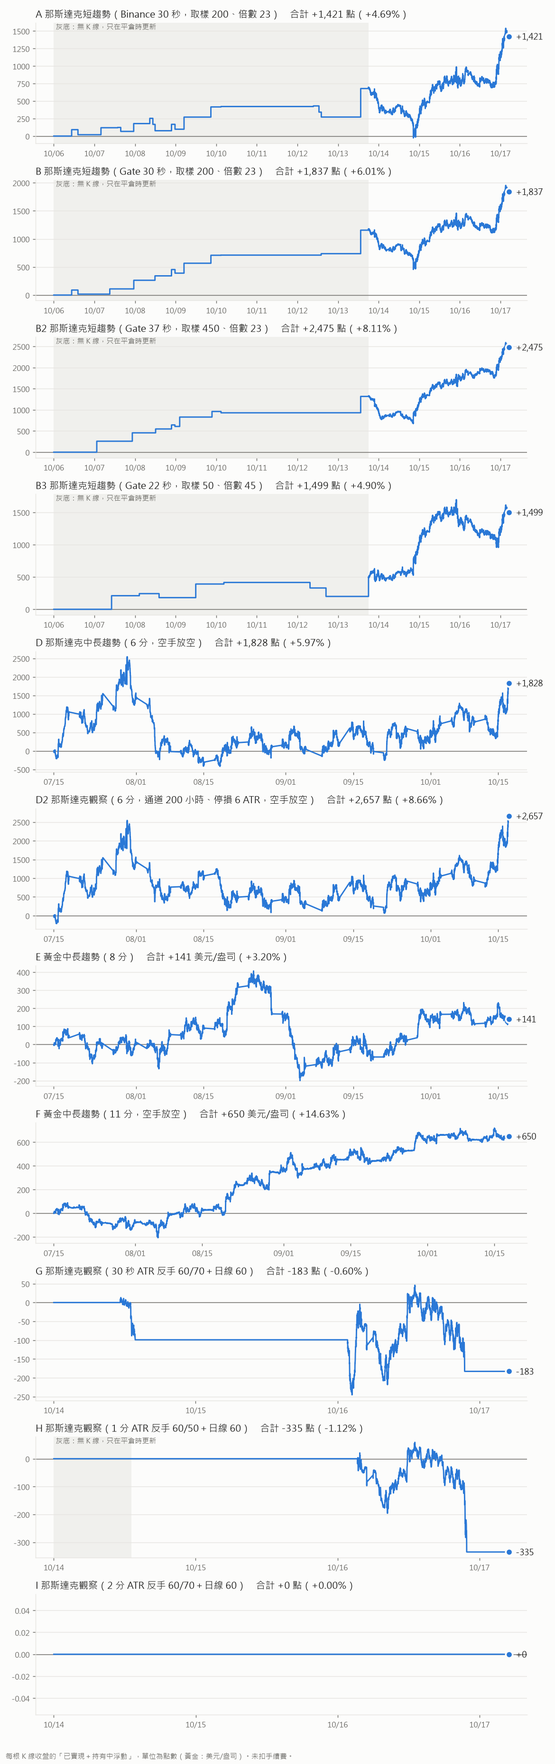
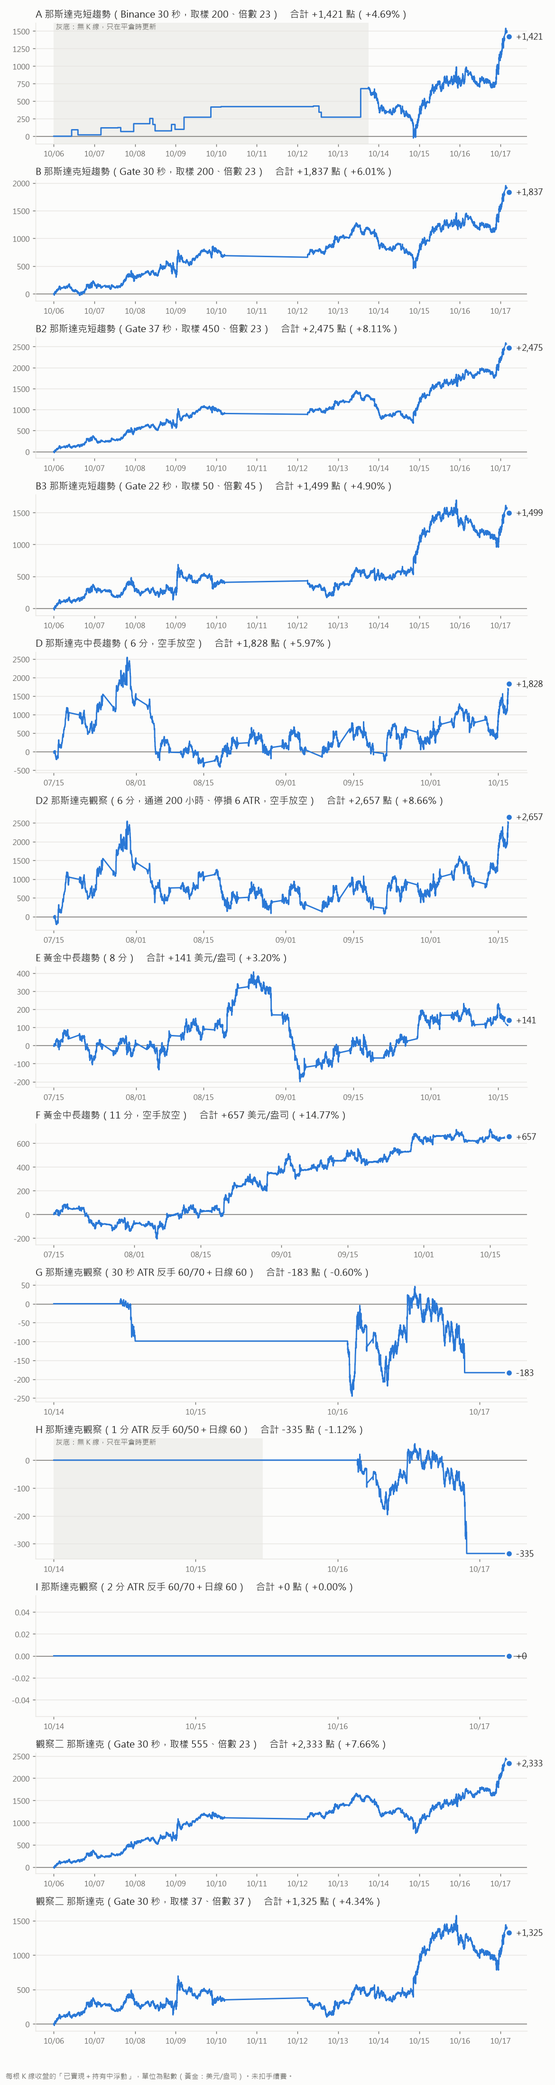
v1.19.0 觀察二四組都進交易明細，恆生改由 TradingView 警報送資料
- 實際紀錄加 O1（Gate 30 秒 555/23）、O2（30 秒 37/37），10/6 起回算：+2,333、+1,325 點（未扣成本）
- 轉接站加 /hsi（同密碼、獨立儲存、留 10 天），新增「恆生傳送」腳本：每根 30 秒 K 送一次，剛建警報時補 3,400 根舊 K 給暖機
- 恆生格接上轉接站資料，交易明細「觀察二 恆生」網頁自算；中斷監控照港期時段、扣 15 分鐘延遲

diff --git a/index.html b/index.html
@@ -3,7 +3,7 @@
 <head>
 <meta charset="utf-8">
 <meta name="viewport" content="width=device-width,initial-scale=1,viewport-fit=cover">
-<title>期貨趨勢 v1.18.0</title>
+<title>期貨趨勢 v1.19.0</title>
 <meta name="description" content="那斯達克 30 秒 Range Filter（Binance 與 Gate）、那斯達克 6 分、黃金 8 分與黃金 11 分 Donchian 的即時趨勢訊號">
 <meta name="theme-color" content="#0b0e14">
 <meta name="apple-mobile-web-app-capable" content="yes">
@@ -165,7 +165,7 @@ canvas{display:block;width:100%;height:100%;touch-action:pan-y;cursor:crosshair}
 
 <script>
 "use strict";
-const VERSION = "v1.18.0";
+const VERSION = "v1.19.0";
 const $ = id => document.getElementById(id);
 const FAPI = "https://fapi.binance.com/fapi/v1";
 const sleep = ms => new Promise(r => setTimeout(r, ms));
@@ -562,10 +562,11 @@ const PANELS = [
    spec:{tf:"30 秒", par:"Range Filter 取樣 37・倍數 37・多空反轉", src:"Gate QQQ 合約原生 30 秒 K"},
    sub:"Gate QQQ 合約 30 秒 K（同 B）・Range Filter 取樣 37・倍數 37（848 右下）",
    P:{per:37, mult:37, useAtr:true, atrLen:12, atrMult:1.5, useVol:true, volLen:20}},
-  {k:"o2hsi", pg:"obs2", title:"恆生", tf:"觀察二・555/25.5", src:"none", nq:false, kind:"rf", span:1e9,
-   waitMsg:"恆生期貨沒有免費的 30 秒資料源，資料接法待決定（策略：30 秒 Range Filter 555/25.5）",
-   spec:{tf:"30 秒", par:"Range Filter 取樣 555・倍數 25.5・多空反轉", src:"待接"},
-   sub:"小型恆生期貨 30 秒 K・Range Filter 取樣 555・倍數 25.5（848 右中）・資料源待接",
+  /* v1.19.0：恆生沒有免費盤後逐筆（港交所逐筆是付費商品），改由 TradingView 小型恆生 30 秒圖掛「恆生傳送」腳本，
+     警報每根 30 秒 K 收盤送到轉接站 /hsi（留 10 天），剛建警報時順便補 3,400 根舊 K 給暖機。帳號是港股延遲報價，晚約 15 分鐘。 */
+  {k:"o2hsi", pg:"obs2", title:"恆生", tf:"觀察二・555/25.5", src:"hsi", nq:false, kind:"rf", span:1e9,
+   spec:{tf:"30 秒", par:"Range Filter 取樣 555・倍數 25.5・多空反轉", src:"小型恆生期貨：TradingView 警報（延遲約 15 分鐘）"},
+   sub:"小型恆生期貨 30 秒 K・Range Filter 取樣 555・倍數 25.5（848 右中）・TradingView 警報轉送",
    P:{per:555, mult:25.5, useAtr:true, atrLen:12, atrMult:1.5, useVol:true, volLen:20}},
 ];
 for(const p of PANELS){ p.bars = []; p.done = 0; p.R = null; p.view = {span:p.span, off:0}; p.hover = null; p.dirty = false; p.ready = false; }
@@ -873,8 +874,18 @@ async function backfill(){
 /* ============ 計算 ============ */
 function recompute(p){
   let B;
-  if(p.src === "none") return;   // v1.17.0 恆生：資料源待接
-  if(p.src === "gate"){
+  if(p.src === "hsi"){
+    // v1.19.0 恆生：TradingView「恆生傳送」警報送來的 30 秒 K（每根都是收盤後才送，全部算收完）
+    B = HSI.bars; const need = p.P.per * 6 + 10, w = $("wait-" + p.k);
+    if(B.length < need){
+      w.hidden = false;
+      w.textContent = B.length ? `恆生資料累積中：已收到 ${B.length} 根 30 秒 K（到 ${tText(B[B.length-1].t)}），暖機要約 ${need} 根；警報剛建好時每分鐘補約 50 根舊 K`
+                               : (HSI.err || "還沒收到恆生資料：要在 TradingView 小型恆生期貨 30 秒圖掛「恆生傳送」並建警報");
+      p.ready = false; return;
+    }
+    p.done = B.length;
+    if(!p.userZoom) p.view.span = p.span = Math.min(B.length, 1500);
+  }else if(p.src === "gate"){
     // Gate 原生 30 秒 K（含無成交的 0 量 K）；只留 CME 時段，與 A-1 同切法
     const raw = RAW1M[p.sym]; if(!raw) return;
     B = raw.filter(b => cmeOpen(b.t));
@@ -1051,13 +1062,14 @@ function renderInfo(p){
   const txTo = p.src === "tx"
     ? `${TX.liveN[p.tfSec] ? "即時到" : "盤後到"} <b>${tText(last.t)}</b>` +
       (TX.hold ? `<span title="換月日 TradingView 的即時 K 可能還是舊合約，差 150 點以上，所以先只看盤後資料">（換月中）</span>` : "")
-    : "";
-  if(e.t) parts.push(`進場 <b>${tText(e.t)}</b> @<b>${fmtP(p, e.price)}</b>`, p.src === "tx" ? txTo : `<b>${durText(Date.now() - e.t)}</b>`);
-  else if(p.src === "tx") parts.push(txTo);
+    : p.src === "hsi" ? `資料到 <b>${tText(last.t)}</b>（延遲約 15 分）` : "";
+  const toLine = p.src === "tx" || p.src === "hsi";
+  if(e.t) parts.push(`進場 <b>${tText(e.t)}</b> @<b>${fmtP(p, e.price)}</b>`, toLine ? txTo : `<b>${durText(Date.now() - e.t)}</b>`);
+  else if(toLine) parts.push(txTo);
   parts.push(`${trigK} <b>${trig}</b>`);
   let fw = "";   // v1.18.0 即時資料中斷／漏資料警告
-  if(p.src === "tx"){
-    const f = txFeed(), g = txGaps();
+  if(p.src === "tx" || p.src === "hsi"){
+    const f = p.src === "tx" ? txFeed() : hsiFeed(), g = p.src === "tx" ? txGaps() : hsiGaps();
     if(f) fw = `<span class="feedw" title="${f.long}">${f.short}</span>`;
     if(g.n) fw += `<span class="feedg" title="盤後檔還沒補到的時段裡，即時 1 秒 K 有 ${g.n} 段缺超過 1 分鐘（共約 ${g.min} 分鐘）；盤後檔補上後就會被正本補齊">漏 ${g.n} 段</span>`;
   }
@@ -1084,6 +1096,9 @@ const TRADE_K = [
   {k:"TX2", pk:"tx37", name:"台指 B2", unit:"點", self:true},
   {k:"TX3", pk:"tx22", name:"台指 B3", unit:"點", self:true},
   {k:"TX4", pk:"o2tx", name:"觀察二 台指", unit:"點", self:true},   // v1.17.0 觀察二的微台 30 秒 555/23
+  {k:"O1", pk:"o2nq", name:"觀察二 那斯達克 555/23", unit:"點"},     // v1.19.0 紀錄程式 O1，10/6 起回算
+  {k:"O2", pk:"o2nq37", name:"觀察二 那斯達克 37/37", unit:"點"},    // v1.19.0 紀錄程式 O2
+  {k:"HSI", pk:"o2hsi", name:"觀察二 恆生", unit:"點", self:"hsi"},  // v1.19.0 網頁自算（TradingView 警報資料暖機完成起）
   {k:"R30", pk:"atr30", name:"G",    unit:"點"},   // v1.9.0 觀察頁，紀錄 2026-10-14 起算
   {k:"R1",  pk:"atr1",  name:"H",    unit:"點"},
   {k:"R2",  pk:"atr2",  name:"I",    unit:"點"},
@@ -1129,10 +1144,11 @@ function tradesOf(T){
     // 台指：起算那根（10/6 第一根、且已過暖機）的部位當「起算持有」，之後逐根照格子的部位接著算
     rows = [];
     if(p.ready && p.R && p.done){
-      const s = p.bars.findIndex((b, i) => i >= p.R.warm && b.t >= TX_START);
+      // v1.19.0 恆生（self:"hsi"）沒有固定起算日：從資料暖機完成那根開始
+      const st = T.self === "hsi" ? 0 : TX_START, s = p.bars.findIndex((b, i) => i >= p.R.warm && b.t >= st);
       if(s >= 0) rows.push({k:T.k, t:p.bars[s].t, act:"起算持有", side:p.R.pos[s], p:p.bars[s].c, nq:null, note:""});
     }
-    TX.rollRows = rows.length ? (TX.rolls[p.tfSec] || []).filter(r => r.t > rows[0].t) : [];
+    TX.rollRows = rows.length && T.self !== "hsi" ? (TX.rolls[p.tfSec] || []).filter(r => r.t > rows[0].t) : [];
   }else rows = LOGROWS.filter(r => r.k === T.k).map(r => Object.assign({}, r));
   // 換算那斯達克點數：照 更新紀錄.py 的 nqconv，用當時那一分鐘（往前找 30 分鐘內）的 Hyperliquid 收盤÷當根價格，
   // 找不到才用現在的比例。用現在的比例會跟正式紀錄差 10 點以上（盈虧點數不受影響，算法是漲跌 %×進場點數）。
@@ -1220,7 +1236,7 @@ const txTax = p => Math.round(p * TMF.mult * 0.00002);
 // 每組的成本規則：nt(點數, 進場價, 出場價) → 一趟扣完成本的台幣；fee(進場價, 出場價) → 這一趟的成本
 function costOf(T){
   if(isNQT(T)) return {name:"nq", nt:(g, ep, xp) => (g * MNQ.mult - 2 * MNQ.fee) * MNQ.rate, fee:() => 2 * MNQ.fee * MNQ.rate};
-  if(T && T.self) return {name:"tx", nt:(g, ep, xp) => g * TMF.mult - 2 * TMF.fee - txTax(ep) - txTax(xp), fee:(ep, xp) => 2 * TMF.fee + txTax(ep) + txTax(xp)};
+  if(T && T.self === true) return {name:"tx", nt:(g, ep, xp) => g * TMF.mult - 2 * TMF.fee - txTax(ep) - txTax(xp), fee:(ep, xp) => 2 * TMF.fee + txTax(ep) + txTax(xp)};
   return null;
 }
 const ntFmt = v => sgn(v);   // 使用者 10/16 要求金額不加「元」字
@@ -1279,7 +1295,8 @@ function renderTrades(){
   if($("tradeSheet").hidden) return;
   const T = TRADE_K.find(x => x.k === tradeK) || TRADE_K[0], d = T.d || 0, u = T.unit;
   let html;
-  if(T.self && !TX.ready) html = `<div class="tnote">${TX.err || "台指資料載入中…"}</div>`;
+  if(T.self === true && !TX.ready) html = `<div class="tnote">${TX.err || "台指資料載入中…"}</div>`;
+  else if(T.self === "hsi" && !PAN(T.pk).ready) html = `<div class="tnote">${HSI.err || (HSI.bars.length ? `恆生資料累積中（已收到 ${HSI.bars.length} 根，暖機要約 3,340 根），收齊後就會開始算` : "還沒收到恆生資料：要在 TradingView 小型恆生期貨 30 秒圖掛「恆生傳送」並建警報")}</div>`;
   else if(!T.self && !LOGROWS) html = `<div class="tnote">${logErr || "讀取進出紀錄中…"}</div>`;
   else if(!T.self && !LOGROWS.some(r => r.k === T.k)) html = `<div class="tnote">這組還沒有正式紀錄（開工跑一次紀錄後才有）</div>`;
   else if(costOf(T)) html = renderTradesNT(T, costOf(T));
@@ -1292,7 +1309,7 @@ function renderTrades(){
       <div class="tot ${ud(tot)}">合計 ${sgn(tot)} ${u}（${sgn(totP, 2)}%）${o && o.pts == null ? '<small style="font-size:11px;font-weight:400;color:var(--mute)">　不含浮動</small>' : ""}</div>
       <div>已平倉 ${R.cnt} 筆（賺 ${R.win}／賠 ${R.cnt - R.win}），已實現 <span class="${ud(R.pts)}">${sgn(R.pts)} ${u}（${sgn(R.pct, 2)}%）</span></div>${winLine(T, R)}
       <div>${hold}</div></div>
-      <div class="tnote">${T.self ? `未扣手續費・2026/10/06 起回算・期交所每日逐筆檔（每天 7:00 補夜盤、17:00 補日盤）＋TradingView 即時，資料到 ${R.ready ? tText(R.upTo) : "—"}・開著會自動更新${TX.roll ? "・換月前的價格已照換月價差平移，盈虧點數不受影響" : ""}</div>` : `未扣手續費・${R.ready ? "資料到 " + tText(R.upTo) + "・開著會自動更新" : "圖表還在載入，先顯示正式紀錄"}・◆＝正式紀錄之後網頁即時算的，下次開工以正式紀錄為準</div>`}` +
+      <div class="tnote">${T.self === "hsi" ? `未扣手續費與滑價・點數是恆生指數點・從資料暖機完成那根起算（TradingView 警報開始送資料後約 70 分鐘補齊暖機）・資料延遲約 15 分鐘，到 ${R.ready ? tText(R.upTo) : "—"}・開著會自動更新</div>` : T.self ? `未扣手續費・2026/10/06 起回算・期交所每日逐筆檔（每天 7:00 補夜盤、17:00 補日盤）＋TradingView 即時，資料到 ${R.ready ? tText(R.upTo) : "—"}・開著會自動更新${TX.roll ? "・換月前的價格已照換月價差平移，盈虧點數不受影響" : ""}</div>` : `未扣手續費・${R.ready ? "資料到 " + tText(R.upTo) + "・開著會自動更新" : "圖表還在載入，先顯示正式紀錄"}・◆＝正式紀錄之後網頁即時算的，下次開工以正式紀錄為準</div>`}` +
       (R.gap ? `<div class="tnote warn">正式紀錄最後一筆之後隔太久，網頁只能從 ${tText(R.first.t)} 接著算，中間可能漏掉交易；開工跑一次紀錄就會補齊。</div>` : "");
     const rowsH = R.trades.map((x, i) => ({x, i: i + 1})).reverse().map(({x, i}) => `<tr class="${x.live ? "live" : ""}">
       <td>${x.live ? "◆" : ""}${i}</td><td class="${sideCls(x.side)}">${SIDE_T[x.side]}</td>
@@ -1751,6 +1768,50 @@ function txGaps(){
   }
   return {n, min:Math.round(sec / 60)};
 }
+/* v1.19.0 恆生：讀轉接站 /hsi 的 30 秒 K。補歷史期間（不到 4,000 根）送來的是比較舊的 K，
+   只抓最後一根之後會漏掉，所以那段每次整包重抓；補齊後才改成只抓最後兩分鐘起。
+   監控同台指，但資料本來就晚約 15 分鐘：用「現在減 15 分」判斷是否在港期交易時段，沒新 K 超過 5 分鐘才警告。
+   港股假日沒有排除，假日會誤報「中斷」。 */
+const HSI_LIVE = TX_LIVE.replace(/\/tx$/, "/hsi"), HSI_DELAY = 15 * 60000;
+const HSI = {bars:[], pollOk:Date.now(), pollErr:"", err:""};
+function hsiOpen(t){              // 港期（台北時間同港時）：日盤 9:15–12:00、13:00–16:30，夜盤 17:15–翌日 3:00
+  const d = new Date(t + 8 * 3600000), wd = (d.getUTCDay() + 6) % 7, hm = d.getUTCHours() * 60 + d.getUTCMinutes();
+  if(hm < 180) return wd >= 1 && wd <= 5;
+  if((hm >= 555 && hm < 720) || (hm >= 780 && hm < 990) || hm >= 1035) return wd < 5;
+  return false;
+}
+async function pollHSI(){
+  const since = HSI.bars.length >= 4000 ? HSI.bars[HSI.bars.length-1].t / 1000 - 120 : 0;
+  const d = await jget(`${HSI_LIVE}?since=${since}`);
+  const m = since ? new Map(HSI.bars.map(b => [b.t, b])) : new Map();
+  for(const [t, o, h, l, c, v] of d.bars) m.set(t * 1000, {t:t * 1000, o, h, l, c, v});
+  HSI.bars = [...m.values()].sort((a, b) => a.t - b.t);
+  HSI.pollOk = Date.now(); HSI.pollErr = ""; HSI.err = "";
+  const p = PAN("o2hsi"); if(p) p.dirty = true;
+}
+function hsiFeed(){
+  const now = Date.now(), eff = now - HSI_DELAY;
+  if(!hsiOpen(eff)) return null;
+  let s = Math.floor(eff / 60000) * 60000;
+  for(let i = 0; i < 1500 && hsiOpen(s - 60000); i++) s -= 60000;
+  const last = HSI.bars.length ? HSI.bars[HSI.bars.length-1].t + 30000 : 0, ref = Math.max(last, s), mins = ms => Math.round(ms / 60000);
+  if(now - HSI.pollOk > 120000)
+    return {short:`⚠ 轉接站連不上 ${mins(now - HSI.pollOk)} 分`, long:`超過 ${mins(now - HSI.pollOk)} 分鐘向轉接站要恆生資料都失敗（${HSI.pollErr || "連線錯誤"}）`};
+  if(eff - ref > 300000)
+    return {short:`⚠ 恆生中斷 ${mins(eff - ref)} 分`, long:`扣掉延遲 15 分鐘後，港期交易時段內已 ${mins(eff - ref)} 分鐘沒收到新的 30 秒 K，TradingView 的「恆生傳送」警報可能被停用了（港股假日也會出現這個警告）`};
+  return null;
+}
+function hsiGaps(){
+  const from = Date.now() - 86400000; let n = 0, ms = 0;
+  for(let i = 1; i < HSI.bars.length; i++){
+    const a = HSI.bars[i-1].t, b = HSI.bars[i].t;
+    if(a < from || b - a <= 90000) continue;
+    let open = true;
+    for(let t = a + 30000; t < b; t += 30000) if(!hsiOpen(t)){ open = false; break; }
+    if(open){ n++; ms += b - a; }
+  }
+  return {n, min:Math.round(ms / 60000)};
+}
 function txDecode(a, tf, adj, rt, adj2){   // rt＝換倉那根 K 的起點：那根以後改用 adj2
   const B = [], ms = tf * 1000; let t = a.length ? a[0] : 0, pc = 0;
   for(let i = 1; i < a.length; i += 6){
@@ -1830,7 +1891,8 @@ async function main(){
       // C 格 v1.10.0 刪除；Hyperliquid 仍要抓：H 格與交易明細的那斯達克換算要用
       loadHL(PAN("atr1")).catch(e => { $("wait-atr1").textContent = "Hyperliquid 載入失敗：" + e.message + "，請重新整理"; }),
       loadTX().catch(e => { TX.err = "台指資料載入失敗：" + e.message + "，請重新整理"; for(const k of ["tx30", "tx37", "tx22", "o2tx"]) $("wait-" + k).textContent = TX.err; }),
-      pollTXL().catch(() => {}),   // 即時 K 拿不到時照舊只顯示盤後資料
+      pollTXL().catch(() => {}),
+      pollHSI().catch(e => { HSI.err = "恆生資料讀取失敗：" + e.message; const p = PAN("o2hsi"); if(p) p.dirty = true; }),   // v1.19.0   // 即時 K 拿不到時照舊只顯示盤後資料
       loadDaily().catch(e => { for(const k of ["atr30", "atr1", "atr2"]) $("wait-" + k).textContent = "日線濾網資料載入失敗：" + e.message + "，請重新整理"; }),
     ]);
   }catch(e){
@@ -1850,6 +1912,7 @@ async function main(){
   setInterval(gtrSave, 60000);
   setInterval(() => { loadDaily().catch(() => {}); }, 1800000);
   setInterval(() => { loadTX().catch(() => {}); }, 600000);   // 台指盤後資料：每 10 分鐘看總表有沒有更新
+  setInterval(() => { pollHSI().catch(e => { HSI.pollErr = e.message; const p = PAN("o2hsi"); if(p) p.dirty = true; }); }, 30000);   // v1.19.0 恆生
   // v1.18.0：失敗時也重畫台指各格，資料一停警告才跳得出來
   setInterval(() => { pollTXL().catch(e => { TX.pollErr = e.message; PANELS.forEach(p => { if(p.src === "tx") p.dirty = true; }); }); }, 10000);
   mnqRate().catch(() => {}); setInterval(() => { mnqRate().catch(() => {}); }, 3600000);   // v1.13.0 匯率一天更新一次   // v1.12.0 台指即時 K（TradingView 約 15 秒送一批）

diff --git a/worker-tx/worker.js b/worker-tx/worker.js
@@ -4,9 +4,11 @@
    警報在 TradingView 伺服器上跑，三台電腦全關也照送。
    資料存在 Durable Object 的 SQLite（KV 免費一天只能寫 1,000 次，不夠），只留最近 3 天，
    更早的由網頁讀盤後逐筆檔。
-   GET /tx?since=秒  回傳 {at, sym, bars:[[t(秒), o, h, l, c, v], ...]}，t 是該根 1 秒 K 的開始時間。 */
+   GET /tx?since=秒  回傳 {at, sym, bars:[[t(秒), o, h, l, c, v], ...]}，t 是該根 1 秒 K 的開始時間。
+   2026-10-18 加恆生：小型恆生期貨 30 秒圖掛「恆生傳送」腳本，POST /hsi/push?k=密碼（同一組密碼）、GET /hsi?since=秒，
+   存在另一個 Durable Object（名稱 hsi），跟台指分開。恆生沒有盤後檔可補，策略暖機要約 2 個交易日，所以留 10 天。 */
 const ALLOW = [/^https:\/\/eason-237588\.github\.io$/, /^http:\/\/(localhost|127\.0\.0\.1)(:\d+)?$/];
-const KEEP = 3 * 86400;   // 秒
+const FEEDS = {tx: {keep: 3 * 86400, sym: "TXF1!"}, hsi: {keep: 10 * 86400, sym: "MHI1!"}};   // 保留秒數
 
 function cors(origin){
   const ok = origin && ALLOW.some(re => re.test(origin));
@@ -35,7 +37,7 @@ export class TxStore {
       }
       const now = Math.floor(Date.now() / 1000);
       this.sql.exec("INSERT OR REPLACE INTO meta VALUES('sym',?),('at',?)", String(d.s || ""), String(now));
-      this.sql.exec("DELETE FROM bars WHERE t < ?", now - KEEP);
+      this.sql.exec("DELETE FROM bars WHERE t < ?", now - (Number(url.searchParams.get("keep")) || 3 * 86400));
       return json({ok: true, n});
     }
     const since = Number(url.searchParams.get("since")) || 0;
@@ -50,8 +52,11 @@ export default {
   async fetch(req, env){
     const origin = req.headers.get("Origin");
     const url = new URL(req.url);
-    const stub = env.TX.get(env.TX.idFromName("tx"));
-    if(url.pathname === "/tx/push" && req.method === "POST"){
+    const m0 = url.pathname.match(/^\/(tx|hsi)(\/push)?$/);
+    if(!m0) return new Response("not found", {status: 404});
+    const name = m0[1], F = FEEDS[name];
+    const stub = env.TX.get(env.TX.idFromName(name));
+    if(m0[2] && req.method === "POST"){
       if(!env.PUSH_KEY || url.searchParams.get("k") !== env.PUSH_KEY.trim()) return new Response("forbidden", {status: 403});
       // TradingView 送來的是警報訊息原文；內容是 JSON 字串
       // 第一版腳本用 syminfo.tickerid，v6 會帶出一串含引號的設定文字把 JSON 弄壞，
@@ -60,11 +65,11 @@ export default {
       let body;
       try{ body = JSON.parse(text); }catch(e){
         const m = text.match(/"b":(\[[\[\]\d.,\s-]*\])\}\s*$/);
-        try{ body = {s: "TXF1!", b: JSON.parse(m[1])}; }catch(e2){ return new Response("bad json", {status: 400}); }
+        try{ body = {s: F.sym, b: JSON.parse(m[1])}; }catch(e2){ return new Response("bad json", {status: 400}); }
       }
-      return stub.fetch("https://do/push", {method: "POST", body: JSON.stringify(body)});
+      return stub.fetch("https://do/push?keep=" + F.keep, {method: "POST", body: JSON.stringify(body)});
     }
-    if(url.pathname === "/tx" && req.method === "GET"){
+    if(!m0[2] && req.method === "GET"){
       const r = await stub.fetch("https://do/get?since=" + encodeURIComponent(url.searchParams.get("since") || "0"));
       const out = new Response(r.body, r);
       for(const [k, v] of Object.entries(cors(origin))) out.headers.set(k, v);

diff --git a/實際紀錄/更新紀錄.py b/實際紀錄/更新紀錄.py
@@ -47,7 +47,10 @@ def ms(y, m, d, h=0):  # 台北時間 → 毫秒
 # 2026-10-15 使用者定的原則：短趨勢頁從 10/6、中長趨勢頁（C、C2、D、E）從 7/15 起算，取代下面註解裡的舊起算日。
 # B（畫面 C）是 Hyperliquid，只能回溯約 3.5 天，紀錄早已從 10/8 開始，回不到 10/6，維持 10/8。
 START = {"A": ms(2026, 10, 6), "A2": ms(2026, 10, 6), "G": ms(2026, 10, 6), "B": ms(2026, 10, 8), "C": ms(2026, 7, 15), "D": ms(2026, 7, 15), "E": ms(2026, 7, 15),
-         "R30": ms(2026, 10, 14), "R1": ms(2026, 10, 14), "R2": ms(2026, 10, 14), "C2": ms(2026, 7, 15), "G2": ms(2026, 10, 6), "G3": ms(2026, 10, 6)}
+         "R30": ms(2026, 10, 14), "R1": ms(2026, 10, 14), "R2": ms(2026, 10, 14), "C2": ms(2026, 7, 15), "G2": ms(2026, 10, 6), "G3": ms(2026, 10, 6),
+         "O1": ms(2026, 10, 6), "O2": ms(2026, 10, 6)}
+# O1、O2（畫面「觀察二」那斯達克兩格，2026-10-18 使用者要求列進交易明細）：同 G 的 Gate 30 秒（逐筆合成），
+# Range Filter 555/23（848 左中）、37/37（848 右下），起算比照 G 的 10/6，10/18 以前是回算。
 # 2026-10-15 晚：使用者要求 B2 符合當初「訊號比 B 少、績效比 B 好」，掃 20～40 秒 × 418 組（10/6 起）後指定
 #   B2（G2）改 37 秒 450/23、新增 B3（G3）22 秒 50/45；舊 G2（30 秒 500/60）列刪除重算。畫面 C 格（B）刪除。
 # G2（畫面 B2，2026-10-15 使用者要求）：同 G 的 Gate 30 秒資料，Range Filter 取樣 500、倍數 60。起算比照 G 的 10/6 方便並排；10/15 以前是回算。
@@ -55,14 +58,15 @@ START = {"A": ms(2026, 10, 6), "A2": ms(2026, 10, 6), "G": ms(2026, 10, 6), "B":
 # 10/15 以前是回算、不是當時實際記的。換月（12/11）時跟 R2 一樣還不會記換倉。
 # 2026-10-14 使用者要求 D、E 回溯拉到最大：XAUUSDT 2025/12/11 上市、PAXGUSDT 1 分 K 從 2020/08/28，各扣 350 小時暖機。
 # C 維持 8/15：單一月份合約的真 5 分 K 只有 60 天，更早只剩小時 K（9 月約已下市）。
-ORDER = ["A", "G", "G2", "G3", "C", "C2", "D", "E", "R30", "R1", "R2"]
+ORDER = ["A", "G", "G2", "G3", "C", "C2", "D", "E", "R30", "R1", "R2", "O1", "O2"]
 # LABEL 是畫面代號（v1.8.4 起照畫面順序叫 A～F），只用在印績效與曲線圖標題；紀錄檔「格子」欄仍是左邊的內部代號。
-LABEL = {"A": "A", "A2": "A-2", "G": "B", "B": "C", "C": "D", "D": "E", "E": "F", "R30": "G", "R1": "H", "R2": "I", "C2": "D2", "G2": "B2", "G3": "B3"}
+LABEL = {"A": "A", "A2": "A-2", "G": "B", "B": "C", "C": "D", "D": "E", "E": "F", "R30": "G", "R1": "H", "R2": "I", "C2": "D2", "G2": "B2", "G3": "B3", "O1": "觀察二", "O2": "觀察二"}
 NAME = {"A": "那斯達克短趨勢（Binance 30 秒，取樣 200、倍數 23）", "A2": "那斯達克短趨勢（取樣 400、倍數 16）", "G": "那斯達克短趨勢（Gate 30 秒，取樣 200、倍數 23）", "B": "那斯達克短趨勢（1 分，取樣 100、倍數 16）", "C": "那斯達克中長趨勢（6 分，空手放空）", "D": "黃金中長趨勢（8 分）", "E": "黃金中長趨勢（11 分，空手放空）",
         "R30": "那斯達克觀察（30 秒 ATR 反手 60/70＋日線 60）", "R1": "那斯達克觀察（1 分 ATR 反手 60/50＋日線 60）", "R2": "那斯達克觀察（2 分 ATR 反手 60/70＋日線 60）",
         "C2": "那斯達克觀察（6 分，通道 200 小時、停損 6 ATR，空手放空）",
         "G2": "那斯達克短趨勢（Gate 37 秒，取樣 450、倍數 23）",
-        "G3": "那斯達克短趨勢（Gate 22 秒，取樣 50、倍數 45）"}
+        "G3": "那斯達克短趨勢（Gate 22 秒，取樣 50、倍數 45）",
+        "O1": "那斯達克（Gate 30 秒，取樣 555、倍數 23）", "O2": "那斯達克（Gate 30 秒，取樣 37、倍數 37）"}
 GOLD = ("D", "E")   # 單位是美元/盎司
 
 # C 格合約與換月日（CME 慣例：到期前約一週的週四換到下一季）。過了最後一列要往下加
@@ -590,11 +594,16 @@ if __name__ == "__main__":
     print("抓 G：Gate QQQ_USDT 逐筆成交（第一次較久）")
     # B2（G2，37 秒 450/23）、B3（G3，22 秒 50/45）共用同一份逐筆，各自合成；
     # B2 暖機約 2,700 根（約 28 個交易小時），第一次從起算日往前多抓 5 天（中間有週末休市）
-    gsince = min(last_t("G", START["G"]), last_t("G2", START["G2"] - 2 * 86400000), last_t("G3", START["G3"] - 2 * 86400000), NOW) - 3 * 86400000
+    gsince = min(last_t("G", START["G"]), last_t("G2", START["G2"] - 2 * 86400000), last_t("G3", START["G3"] - 2 * 86400000),
+                 last_t("O1", START["O1"] - 2 * 86400000), last_t("O2", START["O2"] - 2 * 86400000), NOW) - 3 * 86400000
     GTR = gate_trades(gsince)
     BG = bars_G(gsince, 30, GTR); posG, wG = calc_rf(BG, 200, 23)
     added += update("G", BG, posG, wG, "QQQ_USDT", nqconv)
     LAST["G"] = (BG[-1][4], BG[-1][0], nqconv(BG[-1][0], BG[-1][4]))
+    posO1, wO1 = calc_rf(BG, 555, 23)
+    added += update("O1", BG, posO1, wO1, "QQQ_USDT", nqconv); LAST["O1"] = LAST["G"]
+    posO2, wO2 = calc_rf(BG, 37, 37)
+    added += update("O2", BG, posO2, wO2, "QQQ_USDT", nqconv); LAST["O2"] = LAST["G"]
     BG2 = bars_G(gsince, 37, GTR); posG2, wG2 = calc_rf(BG2, 450, 23)
     added += update("G2", BG2, posG2, wG2, "QQQ_USDT", nqconv); LAST["G2"] = (BG2[-1][4], BG2[-1][0], nqconv(BG2[-1][0], BG2[-1][4]))
     BG3 = bars_G(gsince, 22, GTR); posG3, wG3 = calc_rf(BG3, 50, 45)
@@ -643,7 +652,7 @@ if __name__ == "__main__":
     posR2, wR2 = calc_atr_rev(BR2, 60, 70, 60, DAILY)
     added += update("R2", BR2, posR2, wR2, act[1]); LAST["R2"] = (BR2[-1][4], BR2[-1][0], None)
 
-    BARS = {"A": BA, "G": BG, "B": BB, "C": BC, "D": BD, "E": BE, "R30": BA, "R1": BB, "R2": BR2, "C2": BC, "G2": BG2, "G3": BG3}
+    BARS = {"A": BA, "G": BG, "B": BB, "C": BC, "D": BD, "E": BE, "R30": BA, "R1": BB, "R2": BR2, "C2": BC, "G2": BG2, "G3": BG3, "O1": BG, "O2": BG}
     allrows = [r for r in LOG_ROWS if r not in added] + added
     allrows.sort(key=lambda r: (r["格子"], int(r["時間戳"])))
     save_log(allrows)
